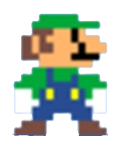
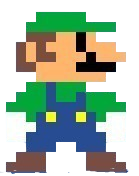
tienda

diff --git a/shop.py b/shop.py
@@ -1,0 +1,88 @@
+from shop_data import SKINS
+
+def buy_skin(game, skin_name):
+    skin = SKINS[skin_name]
+
+    # Ya comprada → equipar
+    if skin_name in game.owned_skins:
+        game.current_skin = skin_name
+        return
+
+    # Comprar
+    if game.score >= skin["price"]:
+        game.score -= skin["price"]
+        game.owned_skins.append(skin_name)
+        game.current_skin = skin_name
+
+
+def draw_shop(screen, game):
+    screen.clear()
+    screen.draw.text("TIENDA DE SKINS", center=(300, 50), fontsize=50, color="white")
+    screen.draw.text(
+        "Puntos: " + str(game.score),
+        center =(300, 100),
+        fontsize=35,
+        color="cyan"
+    )
+    y = 120
+    for skin_name in SKINS:
+        skin = SKINS[skin_name]
+
+        text = skin_name + " - " + str(skin["price"]) + " pts"
+
+        if skin_name in game.owned_skins:
+            text += " (COMPRADA)"
+
+        screen.draw.text(
+            text,
+            center=(300, y),
+            fontsize=30,
+            color="yellow" if skin_name == game.current_skin else "white"
+        )
+        y += 50
+
+    screen.draw.text(
+        "Click para comprar / equipar",
+        center=(300, 350),
+        fontsize=30,
+        color="cyan"
+    )
+    # 🔙 BOTÓN VOLVER
+    screen.draw.text(
+        "VOLVER AL MENÚ",
+        center=(300, 380),
+        fontsize=35,
+        color="cyan"
+    )
+
+def shop_mouse_down(pos, game):
+    # Click en botón VOLVER
+    if 360 < pos[1] < 410:
+        game.state = "menu"
+        return
+    y = 120
+    for skin_name in SKINS:
+        if 100 < pos[1] < y + 20:
+            buy_skin(game, skin_name)
+            return
+        y += 50
+
+
+
+
+
+
+
+
+
+
+
+
+
+
+
+
+
+
+
+

diff --git a/main.py b/main.py
@@ -7,6 +7,7 @@ from star import star, draw_star, respawn_star, update_star
 from game_state import GameState
 from score_system import add_score
 from menu import draw_menu, update_menu, on_mouse_down as menu_mouse_down
+from shop import draw_shop, shop_mouse_down
 game = GameState()
 
 def disable_star():
@@ -21,7 +22,8 @@ def update():
         return
 
 
-    update_player()
+    update_player(game)
+    
     update_enemies()
     update_star()
     check_collisions()
@@ -36,13 +38,16 @@ def draw():
     if game.state == "menu":
         draw_menu(screen)
         return
+    if game.state == "shop":
+        draw_shop(screen, game)
+        return
     if game.state == "game":
 
         screen.blit("fondo", (0, 0))
         draw_player()
         draw_enemies()
         draw_star()
-    
+
         # ---------------------------
         # ✨ MOSTRAR VIDAS EN PANTALLA
         # ---------------------------
@@ -109,9 +114,13 @@ def on_mouse_down(pos, button):
     if game.state == "menu":
         menu_mouse_down(pos, button, game)
 
+    elif game.state == "shop":
+        shop_mouse_down(pos, game)
+
     elif game.state == "game_over":
         respawn_game()
         game.state = "menu"
+    
 
  
 def respawn_game():
@@ -119,6 +128,6 @@ def respawn_game():
     game.lives = 3
     game.invincible= False
     respawn_star()
-    game.score = 0
+    
 
 pgzrun.go()

diff --git a/shop_data.py b/shop_data.py
@@ -1,0 +1,48 @@
+# Cada skin tiene: imagen y precio
+SKINS = {
+    "player": {
+        "image": "player",
+        "price": 0
+    },
+    "peach": {
+        "image": "peach",
+        "price": 50
+    },
+    "luigi": {
+        "image": "luigi",
+        "price": 100
+    },
+    "mario_oro": {
+        "image": "mario_oro",
+        "price": 100
+    }
+}
+
+
+
+
+
+
+
+
+
+
+
+
+
+
+
+
+
+
+
+
+
+
+
+
+
+
+
+
+

diff --git a/game_state.py b/game_state.py
@@ -5,4 +5,36 @@ class GameState:
         self.state = "menu"
         self.lives = 3
         self.invincible = False 
+
+# -------------------------
+        # 🎨 SISTEMA DE SKINS
+        # -------------------------
+        self.current_skin = "player"
+        self.owned_skins = ["player"]
+
+
+
+
+
+
+
+
+
+
+
+
+
+
+
+
+
+
+
+
+
+
+
+
+
+
         

diff --git a/player.py b/player.py
@@ -5,7 +5,8 @@ from config import PLAYER_SPEED
 
 player = Actor("player", (400, 500))
 
-def update_player():
+def update_player(game):
+    player.image = game.current_skin
     if keyboard.left:
         player.x -= PLAYER_SPEED
     if keyboard.right:
